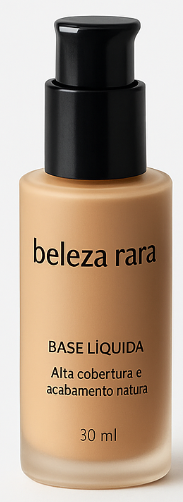
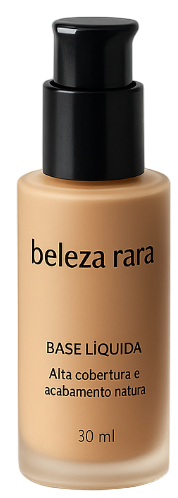
Modificando estrutura do site.

diff --git a/langepage/BelezaRara.html b/langepage/BelezaRara.html
@@ -752,8 +752,8 @@
                 <div class="selo-avaliacao"><span class="estrela">★</span>
                     <span class="nota">4.9</span>
                 </div>
-                <p class="nome-produto">Floralis energy skincare</p>
-                <p class="descricao-produto">Hidratante energizante.</p>
+                <p class="nome-produto">Floralis energy </p>
+                <p class="descricao-produto">Skincare hidratante energizante.</p>
                 <p class="preco-produto">R$ 49,90</p>
                 <a href="#" class="btn-comprar" data-nome="Floralis energy skincare" data-preco="49.90">Comprar</a>
             </div>
@@ -763,8 +763,8 @@
                 <div class="selo-avaliacao"><span class="estrela">★</span>
                     <span class="nota">4.5</span>
                 </div>
-                <p class="nome-produto">Floralis calmante skincare</p>
-                <p class="descricao-produto">Alivia irritações e vermelhidão.</p>
+                <p class="nome-produto">Floralis calmante </p>
+                <p class="descricao-produto">Skincare alivia irritações e vermelhidão.</p>
                 <p class="preco-produto">R$ 49,90</p>
                 <a href="#" class="btn-comprar" data-nome="Floralis calmante skincare" data-preco="49.90">Comprar</a>
             </div>
@@ -871,7 +871,7 @@
 
             <!-- Maquiagem -->
             <div class="produto maquiagem">
-                <img src="../assets/css/img/maquiagem/baseliquida.PNG" alt="Base líquida">
+                <img src="../assets/css/img/maquiagem/baseliquida.png" alt="Base líquida">
                 <div class="selo-avaliacao"><span class="estrela">★</span>
                     <span class="nota">4.2</span>
                 </div>
@@ -1127,7 +1127,7 @@
             </div>
 
             <!-- kits -->
-             <div class="produto kits">
+            <div class="produto kits">
                 <img src="../assets/css/img/kits/base+corretivo.png" alt="Base + Corretivo">
                 <div class="selo-avaliacao"><span class="estrela">★</span><span class="nota">4.9</span></div>
                 <p class="nome-produto">Base e corretivo</p>
@@ -1139,8 +1139,8 @@
             <div class="produto kits">
                 <img src="../assets/css/img/kits/mascara carvao+vitamina c.png" alt="carvao + vitamina c">
                 <div class="selo-avaliacao"><span class="estrela">★</span><span class="nota">4.3</span></div>
-                <p class="nome-produto">Máscara carvão e vitamina c</p>
-                <p class="descricao-produto">Pele limpa, iluminada e renovada.</p>
+                <p class="nome-produto">Carvão e vitamina c</p>
+                <p class="descricao-produto">Máscara que limpa, iluminada e renovada.</p>
                 <p class="preco-produto">R$ 35,90</p>
                 <a href="#" class="btn-comprar" data-nome="Máscara carvão e vitamina c" data-preco="35.90">Comprar</a>
             </div>
@@ -1148,8 +1148,8 @@
             <div class="produto kits">
                 <img src="../assets/css/img/kits/mascara regeneracao+nutricao.png" alt="regeneracao + nutricao">
                 <div class="selo-avaliacao"><span class="estrela">★</span><span class="nota">4.9</span></div>
-                <p class="nome-produto">Máscara otoro e nutrição</p>
-                <p class="descricao-produto">Regeneração e nutrição para pele saudável.</p>
+                <p class="nome-produto">Otoro e nutrição</p>
+                <p class="descricao-produto">Máscara que regenera e nutri.</p>
                 <p class="preco-produto">R$ 35,90</p>
                 <a href="#" class="btn-comprar" data-nome="Máscara otoro e nutrição" data-preco="35.90">Comprar</a>
             </div>
@@ -1166,32 +1166,35 @@
             <div class="produto kits">
                 <img src="../assets/css/img/kits/serum+creme hidratante.png" alt="serum hidratante + creme hidratante">
                 <div class="selo-avaliacao"><span class="estrela">★</span><span class="nota">4.1</span></div>
-                <p class="nome-produto">Sérum e creme hidratante</p>
+                <p class="nome-produto">Sérum e creme</p>
                 <p class="descricao-produto">Hidratação profunda para pele revitalizada.</p>
                 <p class="preco-produto">R$ 63,90</p>
                 <a href="#" class="btn-comprar" data-nome="Sérum e creme hidratante" data-preco="63.90">Comprar</a>
             </div>
 
             <div class="produto kits">
-                <img src="../assets/css/img/kits/perfume orvalho +creme orvalho+sabonete luz oriente.png" alt="perfume orvalho + creme + sabonete">
+                <img src="../assets/css/img/kits/perfume orvalho +creme orvalho+sabonete luz oriente.png"
+                    alt="perfume orvalho + creme + sabonete">
                 <div class="selo-avaliacao"><span class="estrela">★</span><span class="nota">4.8</span></div>
-                <p class="nome-produto">Perfume, creme e sabonete</p>
+                <p class="nome-produto">Perf., creme e sabonete</p>
                 <p class="descricao-produto">Essência natural para sua rotina diária.</p>
                 <p class="preco-produto">R$ 118,90</p>
                 <a href="#" class="btn-comprar" data-nome="Perfume, creme e sabonete" data-preco="118.90">Comprar</a>
             </div>
 
             <div class="produto kits">
-                <img src="../assets/css/img/kits/perfume azure+creme marinho+sabonete nuvem.png" alt="perfume azure + creme + sabonete">
+                <img src="../assets/css/img/kits/perfume azure+creme marinho+sabonete nuvem.png"
+                    alt="perfume azure + creme + sabonete">
                 <div class="selo-avaliacao"><span class="estrela">★</span><span class="nota">4.3</span></div>
-                <p class="nome-produto">Perfume,creme e sabonete</p>
+                <p class="nome-produto">Perf.,creme e sabonete</p>
                 <p class="descricao-produto">Frescor e conforto em cada toque.</p>
                 <p class="preco-produto">R$ 132,90</p>
                 <a href="#" class="btn-comprar" data-nome="Perfume,creme e sabonete" data-preco="132.90">Comprar</a>
             </div>
 
-             <div class="produto kits">
-                <img src="../assets/css/img/kits/perfume erva seca+ sabonete aurea.png" alt="perfume erva seca +sabonete aurea">
+            <div class="produto kits">
+                <img src="../assets/css/img/kits/perfume erva seca+ sabonete aurea.png"
+                    alt="perfume erva seca +sabonete aurea">
                 <div class="selo-avaliacao"><span class="estrela">★</span><span class="nota">4.8</span></div>
                 <p class="nome-produto">Perfume e sabonete</p>
                 <p class="descricao-produto">Elegância e sofisticação em harmonia perfeita.</p>
@@ -1271,7 +1274,7 @@
     </div>
 
     <!-- Carrinho -->
-    <div id="carrinho" class="carrinho">
+    <div id="carrinho" class="carrinho">0
         <div class="carrinho-header">
             <h3>CARRINHO <span id="qtdItens">(0 itens)</span></h3>
             <span class="fechar-carrinho" onclick="fecharCarrinho()">×</span>
@@ -1307,12 +1310,16 @@
                 <strong id="total">R$ 0,00</strong>
             </div>
 
+
             <button class="btn-finalizar" onclick="finalizarPedido()">FINALIZAR PEDIDO</button>
         </div>
     </div>
-
     <!-- Historia da empresa -->
     <div class="historia">
+
+    </div>
+
+    <div class="politicas">
 
     </div>
 
@@ -1601,6 +1608,7 @@
                     produto.style.display = 'none';
                 }
             });
+
         }
 
     </script>

diff --git a/assets/css/BelezaRara.css b/assets/css/BelezaRara.css
@@ -144,11 +144,8 @@ nav ul li:hover {
 
 .produtos-grid {
   display: grid;
-  /* Usa CSS Grid para layout */
-  grid-template-columns: repeat(auto-fit, minmax(200px, 1fr));
-  /* Colunas responsivas */
+  grid-template-columns: repeat(6, 1fr); /* Exatamente 5 colunas */
   gap: 20px;
-  /* Espaço entre os itens do grid */
 }
 
 .produto {
@@ -197,7 +194,7 @@ nav ul li:hover {
   /* Permite aplicar padding e largura */
   margin-top: 10px;
   /* Espaço acima do botão */
-  padding: 10px 60px;
+  padding: 10px 100px;
   /* Espaçamento interno: 10px acima/baixo, 150px lado a lado */
   background: transparent;
   /* Fundo laranja escuro */
@@ -704,3 +701,4 @@ nav button:focus {
   margin-bottom: 30px;
   color: #000;
 }
+
